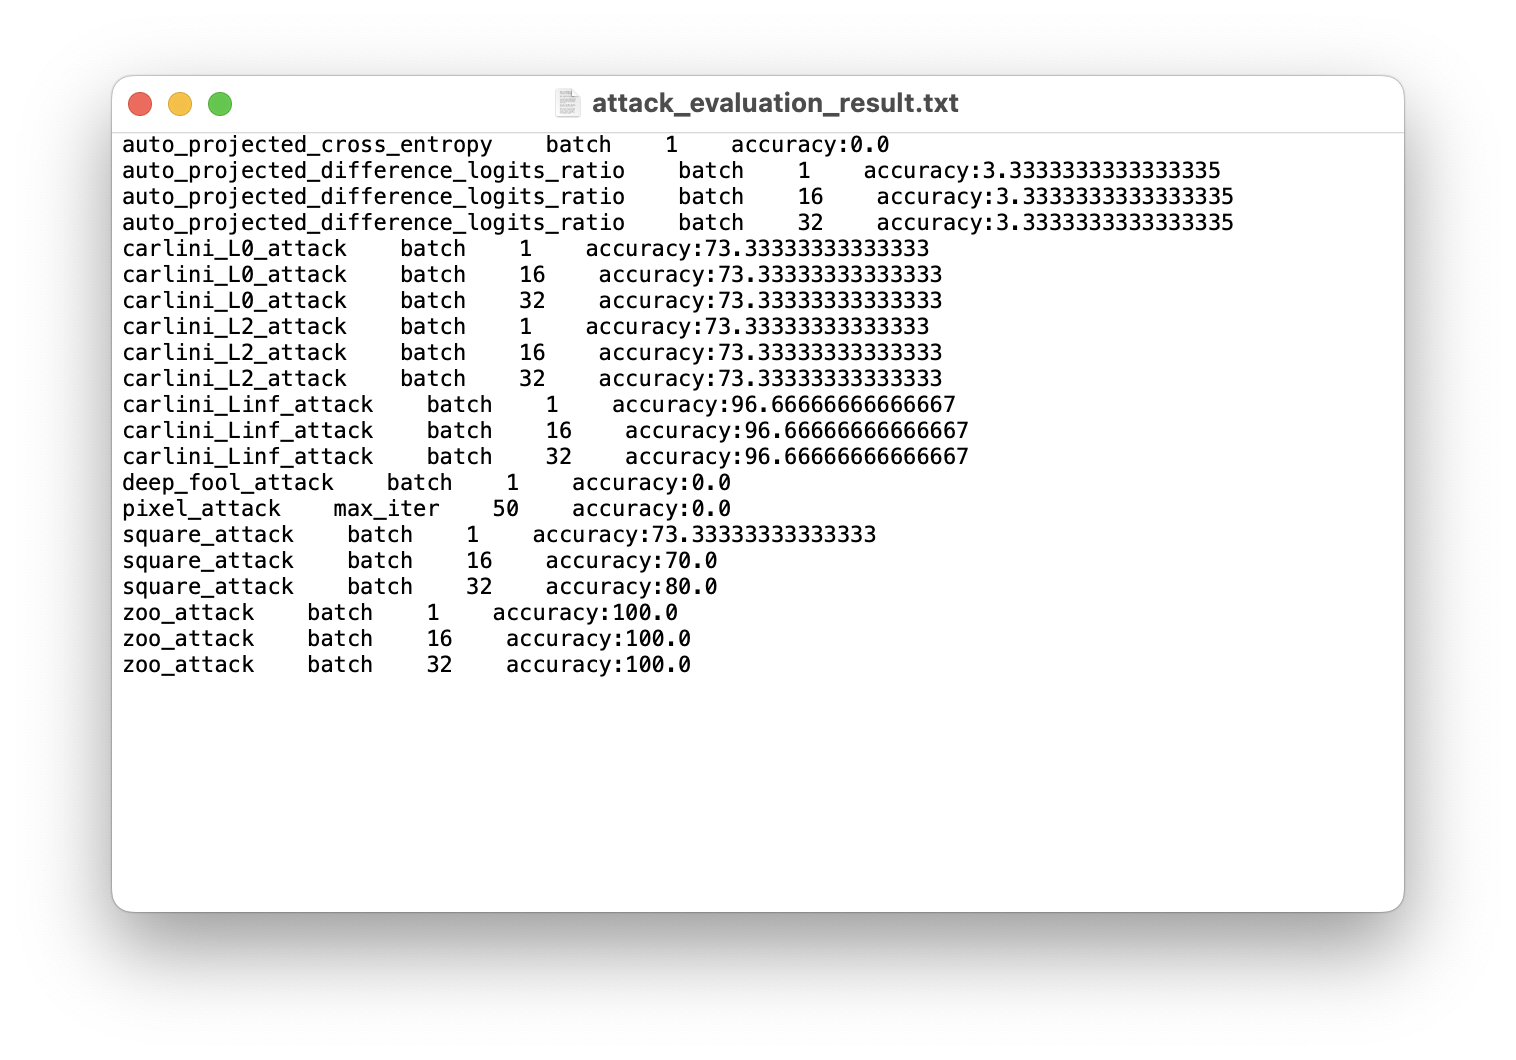
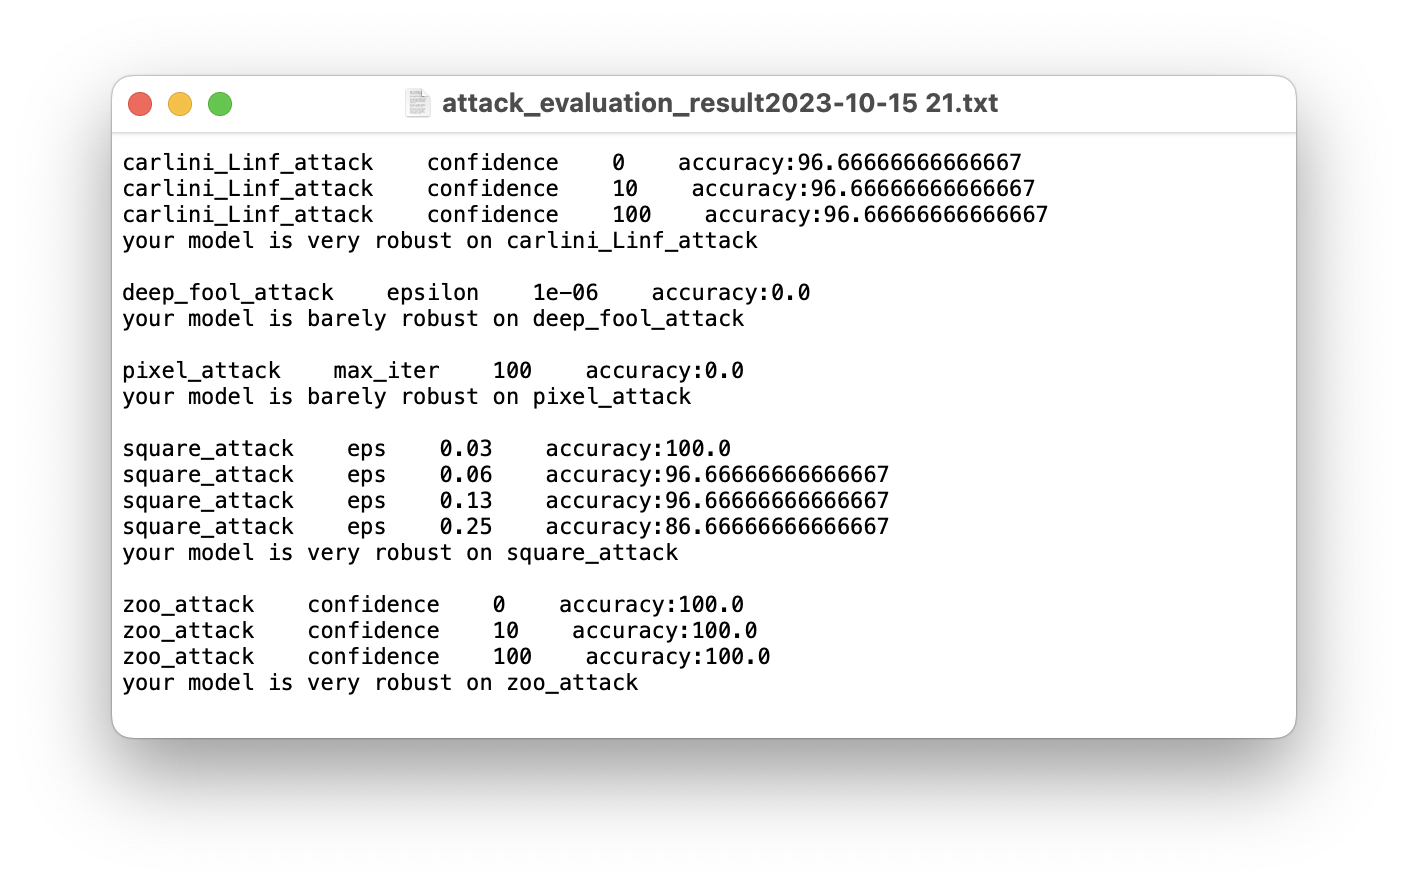
Update README.md and replace images

Changed region(s): [[0.0625, 0.0609, 0.9375, 0.8837]]

diff --git a/README.md b/README.md
@@ -97,9 +97,9 @@ See the demos in `examples/` directory for usage in action:
 After evaluating your model with `evaluate()` function, we provide
 the following insights:
 
-- Summary of adversarial attacks performed, found in `attack_evaluation_result.txt`:
+- Summary of adversarial attacks performed, found in a text file named `attack_evaluation_result.txt` followed by date. For example:
   ![Result Example](images/evaluation_example.png)
-- Samples of the images can be found in `img/` directory, for example:
+- Samples of the images can be found in a directory `img/` followed by date, for example:
   <p align="center">
     <img src="images/img_overview.png" alt="img overview" width="300" height="200" align="center">
     <img src="images/image_sample.png" alt="sample image" width="200" height="100" align="center">
